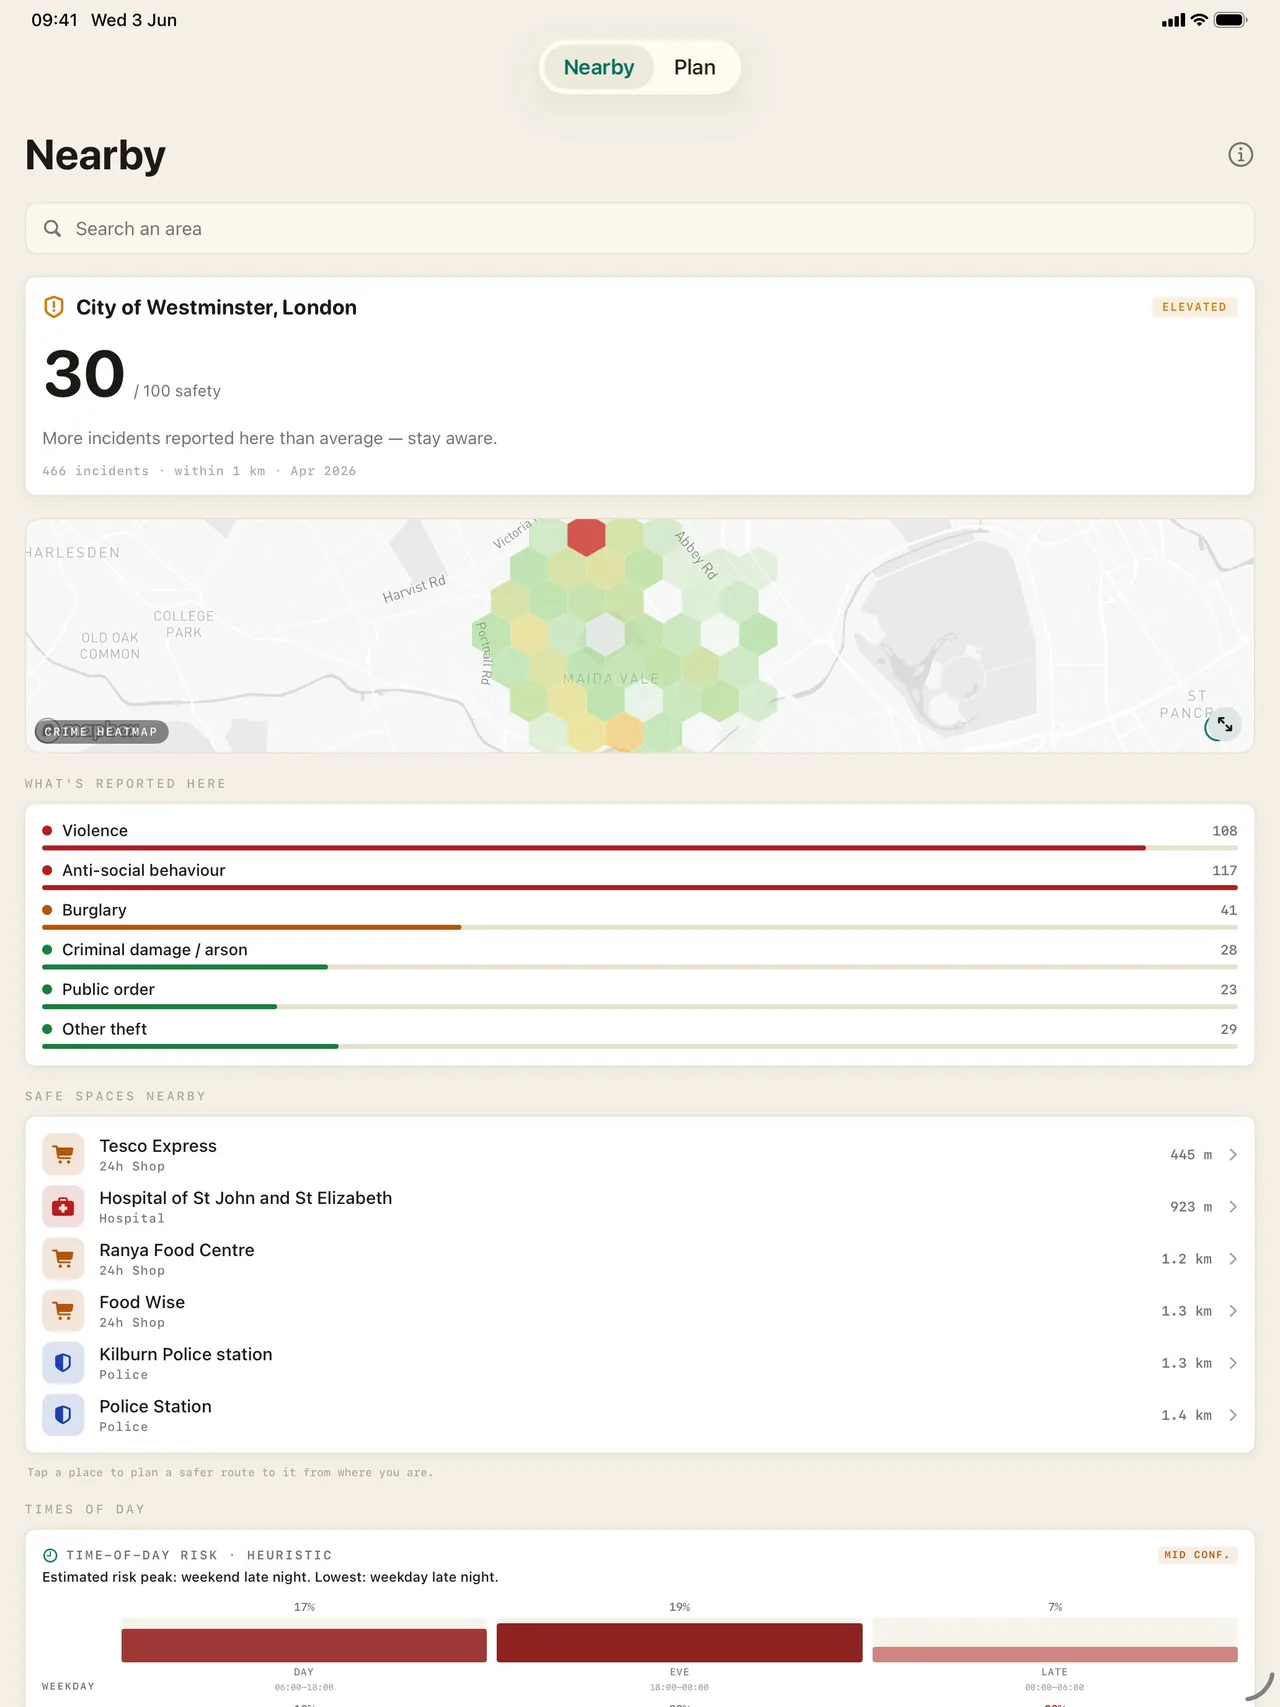
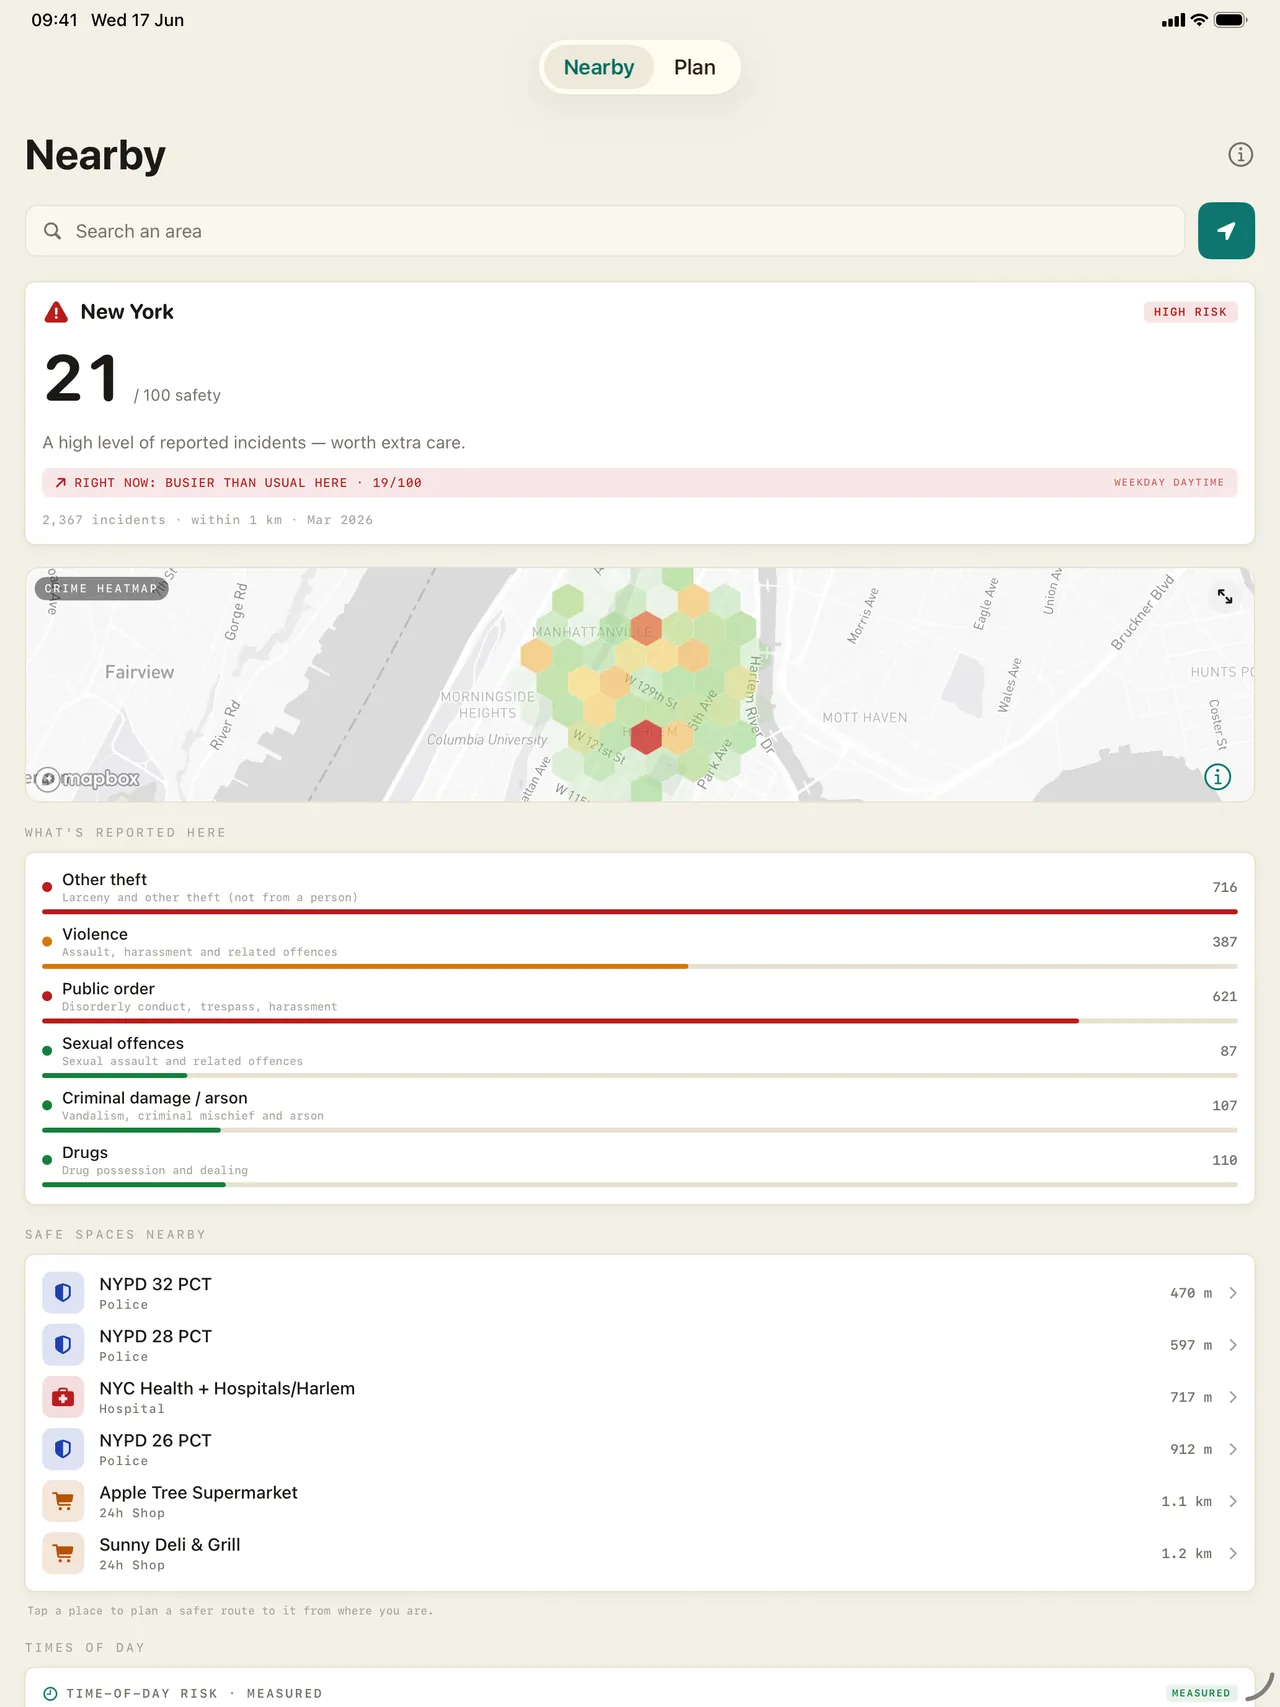
Website: add fresh iPad screenshots + iPhone tap-a-hex
iPad Nearby/Plan refreshed to NYC; repurposed the iPad nav slot to the tap-a-hex heatmap detail; added a New York iPhone tap-a-hex shot as a duo in the Crime heatmap section. Alt text + captions updated to match.

diff --git a/index.html b/index.html
@@ -583,10 +583,16 @@
   <div class="wrap">
     <div class="feat flip">
       <div class="feat-media reveal">
-        <figure class="figure">
-          <img src="assets/route-plain.webp" alt="SafeRoute route planner from Harlem to Columbus Ave in New York with five routes found and scored over a crime heatmap, 9,345 incidents in the area" loading="lazy" width="700" height="1521">
-          <figcaption class="figcap"><span>FIG.03 — ROUTE VIEW</span><span>9,345 INCIDENTS</span></figcaption>
-        </figure>
+        <div class="duo">
+          <figure class="figure">
+            <img src="assets/route-plain.webp" alt="SafeRoute route planner from Harlem to Columbus Ave in New York with five routes found and scored over a crime heatmap, 9,345 incidents in the area" loading="lazy" width="700" height="1521">
+            <figcaption class="figcap"><span>FIG.03 — ROUTE VIEW</span><span>9,345 INCIDENTS</span></figcaption>
+          </figure>
+          <figure class="figure">
+            <img src="assets/heatmap-hex.webp" alt="SafeRoute crime heatmap on iPhone with a tapped hexagon cell detailing 89 reported incidents in a 300-metre area of Washington Heights, New York" loading="lazy" width="700" height="1521">
+            <figcaption class="figcap"><span>TAP A HEX</span><span>89 INCIDENTS</span></figcaption>
+          </figure>
+        </div>
       </div>
       <div class="feat-body reveal">
         <span class="label"><span class="slash">//</span> 05 — Crime heatmap</span>
@@ -751,16 +757,16 @@
     </div>
     <div class="ipad-strip">
       <figure class="figure reveal">
-        <img src="assets/ipad-nearby.webp" alt="SafeRoute Nearby tab on iPad showing an area safety score, crime heatmap, what's reported and safe spaces nearby" loading="lazy" width="1280" height="1707">
+        <img src="assets/ipad-nearby.webp" alt="SafeRoute Nearby tab on iPad showing a 21 out of 100 area safety score for New York, a crime heatmap, what's reported and safe spaces nearby" loading="lazy" width="1280" height="1707">
         <figcaption class="figcap"><span>IPAD — NEARBY</span></figcaption>
       </figure>
       <figure class="figure reveal">
-        <img src="assets/ipad-plan.webp" alt="SafeRoute route planner on iPad with a scored route from Maida Vale to Soho over a crime heatmap" loading="lazy" width="1280" height="1707">
+        <img src="assets/ipad-plan.webp" alt="SafeRoute route planner on iPad with a scored route from Current Location to 250 Park Avenue in New York over a crime heatmap" loading="lazy" width="1280" height="1707">
         <figcaption class="figcap"><span>IPAD — PLAN</span></figcaption>
       </figure>
       <figure class="figure reveal">
-        <img src="assets/ipad-nav.webp" alt="SafeRoute 3D navigation on iPad at night" loading="lazy" width="1280" height="1707">
-        <figcaption class="figcap"><span>IPAD — NAVIGATION</span></figcaption>
+        <img src="assets/ipad-nav.webp" alt="SafeRoute crime heatmap on iPad with a tapped hexagon cell detailing 153 reported incidents in that area of New York" loading="lazy" width="1280" height="1707">
+        <figcaption class="figcap"><span>IPAD — TAP A HEX</span></figcaption>
       </figure>
     </div>
   </div>
